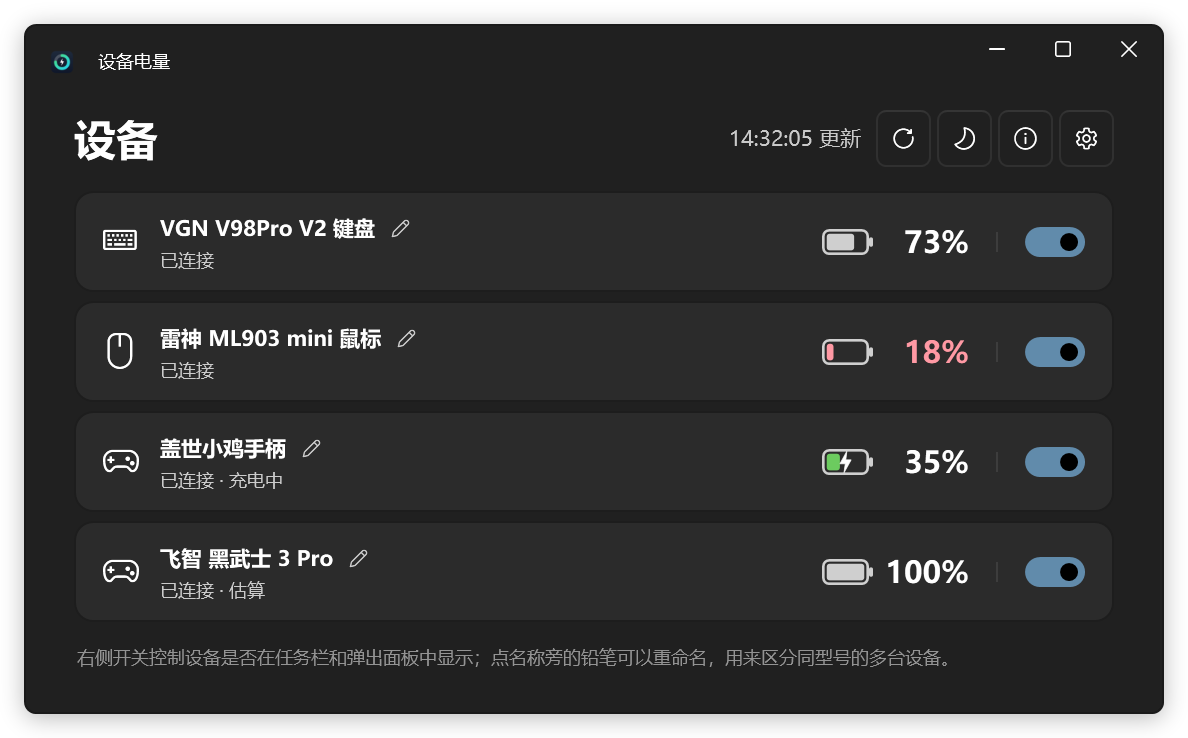
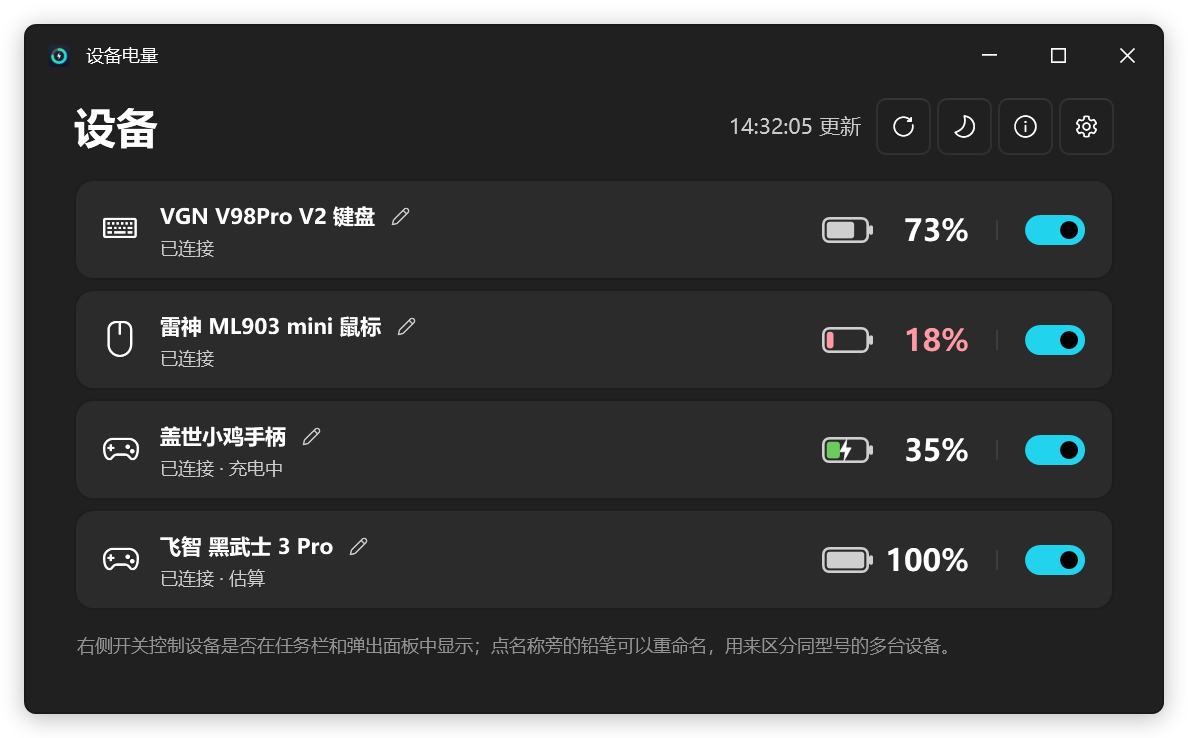
Docs: Windows 11 support, autostart default, dev mode; new screenshots
Fix inaccurate README descriptions (vendor software, autostart default, Windows 11), document dev mode and demo tools, regenerate screenshots with the teal accent.

diff --git a/README.md b/README.md
@@ -5,10 +5,10 @@
 # 设备电量
 
 在 Windows 任务栏上直接显示无线键盘、鼠标、手柄的电量<br>
-不用安装、也不用打开各家的驱动软件
+不用打开各家的驱动软件
 
 [![最新版本](https://img.shields.io/github/v/release/AnLifeX/DeviceBatteryTray?label=%E6%9C%80%E6%96%B0%E7%89%88%E6%9C%AC&color=2DD4BF)](https://github.com/AnLifeX/DeviceBatteryTray/releases/latest)
-[![Windows 10](https://img.shields.io/badge/Windows-10-0078D4?logo=windows&logoColor=white)](#系统要求)
+[![Windows 10 | 11](https://img.shields.io/badge/Windows-10%20%7C%2011-0078D4?logo=windows&logoColor=white)](#系统要求)
 [![.NET 8](https://img.shields.io/badge/.NET-8-512BD4?logo=dotnet&logoColor=white)](https://dotnet.microsoft.com/download/dotnet/8.0)
 [![MIT 许可证](https://img.shields.io/badge/%E8%AE%B8%E5%8F%AF%E8%AF%81-MIT-22C55E)](LICENSE)
 
@@ -26,7 +26,7 @@
 - 🪟 **弹出面板**：点一下电量条，就能看到所有设备的电量和充电状态。
 - 🔔 **低电量提醒**：电量低于设定值时弹出系统通知，同一次低电量只提醒一次。
 - 🎛 **同型号多台**：插了好几个同型号的接收器也能分别显示；可以给每台设备改名，也可以隐藏不想看的设备。
-- 🌗 **深浅色**：跟随系统，也可以在主页面一键切换。
+- 🌗 **深浅色**：首次运行时与系统一致，之后在主页面一键切换。
 - ⬆ **自动更新**：在后台检查并下载新版本，替换后自动重启。
 
 <div align="center">
@@ -69,9 +69,8 @@
 
 ### 系统要求
 
-- Windows 10，任务栏横向放置（在屏幕底部或顶部）
+- Windows 10 / 11，任务栏横向放置（在屏幕底部或顶部）
 - 任务栏竖着放时，会改为在托盘区显示程序图标，点它同样能打开弹出面板
-- Windows 11 尚未测试
 
 ## 使用说明
 
@@ -92,11 +91,11 @@
 
 | 选项 | 默认 | 说明 |
 |---|---|---|
-| 开机自启 | 关 | 登录 Windows 后在后台启动 |
+| 开机自启 | 安装时选择 | 登录 Windows 后在后台启动；安装向导中默认勾选，便携版默认关闭 |
 | 刷新间隔 | 30 秒 | 多久读取一次电量，可设 5 ~ 3600 秒 |
 | 低电量提醒 | 低于 20% | 可选 10% ~ 30% 或关闭；充电中、已隐藏的设备不提醒 |
 | 读取飞智黑武士 | 开 | 需要管理员权限，见下方说明 |
-| 自动更新 | 开 | 检查间隔可选 1 小时 ~ 每周，默认 6 小时 |
+| 自动更新 | 开 | 启动后和之后每小时检查一次 |
 
 ### 飞智黑武士与管理员权限
 
